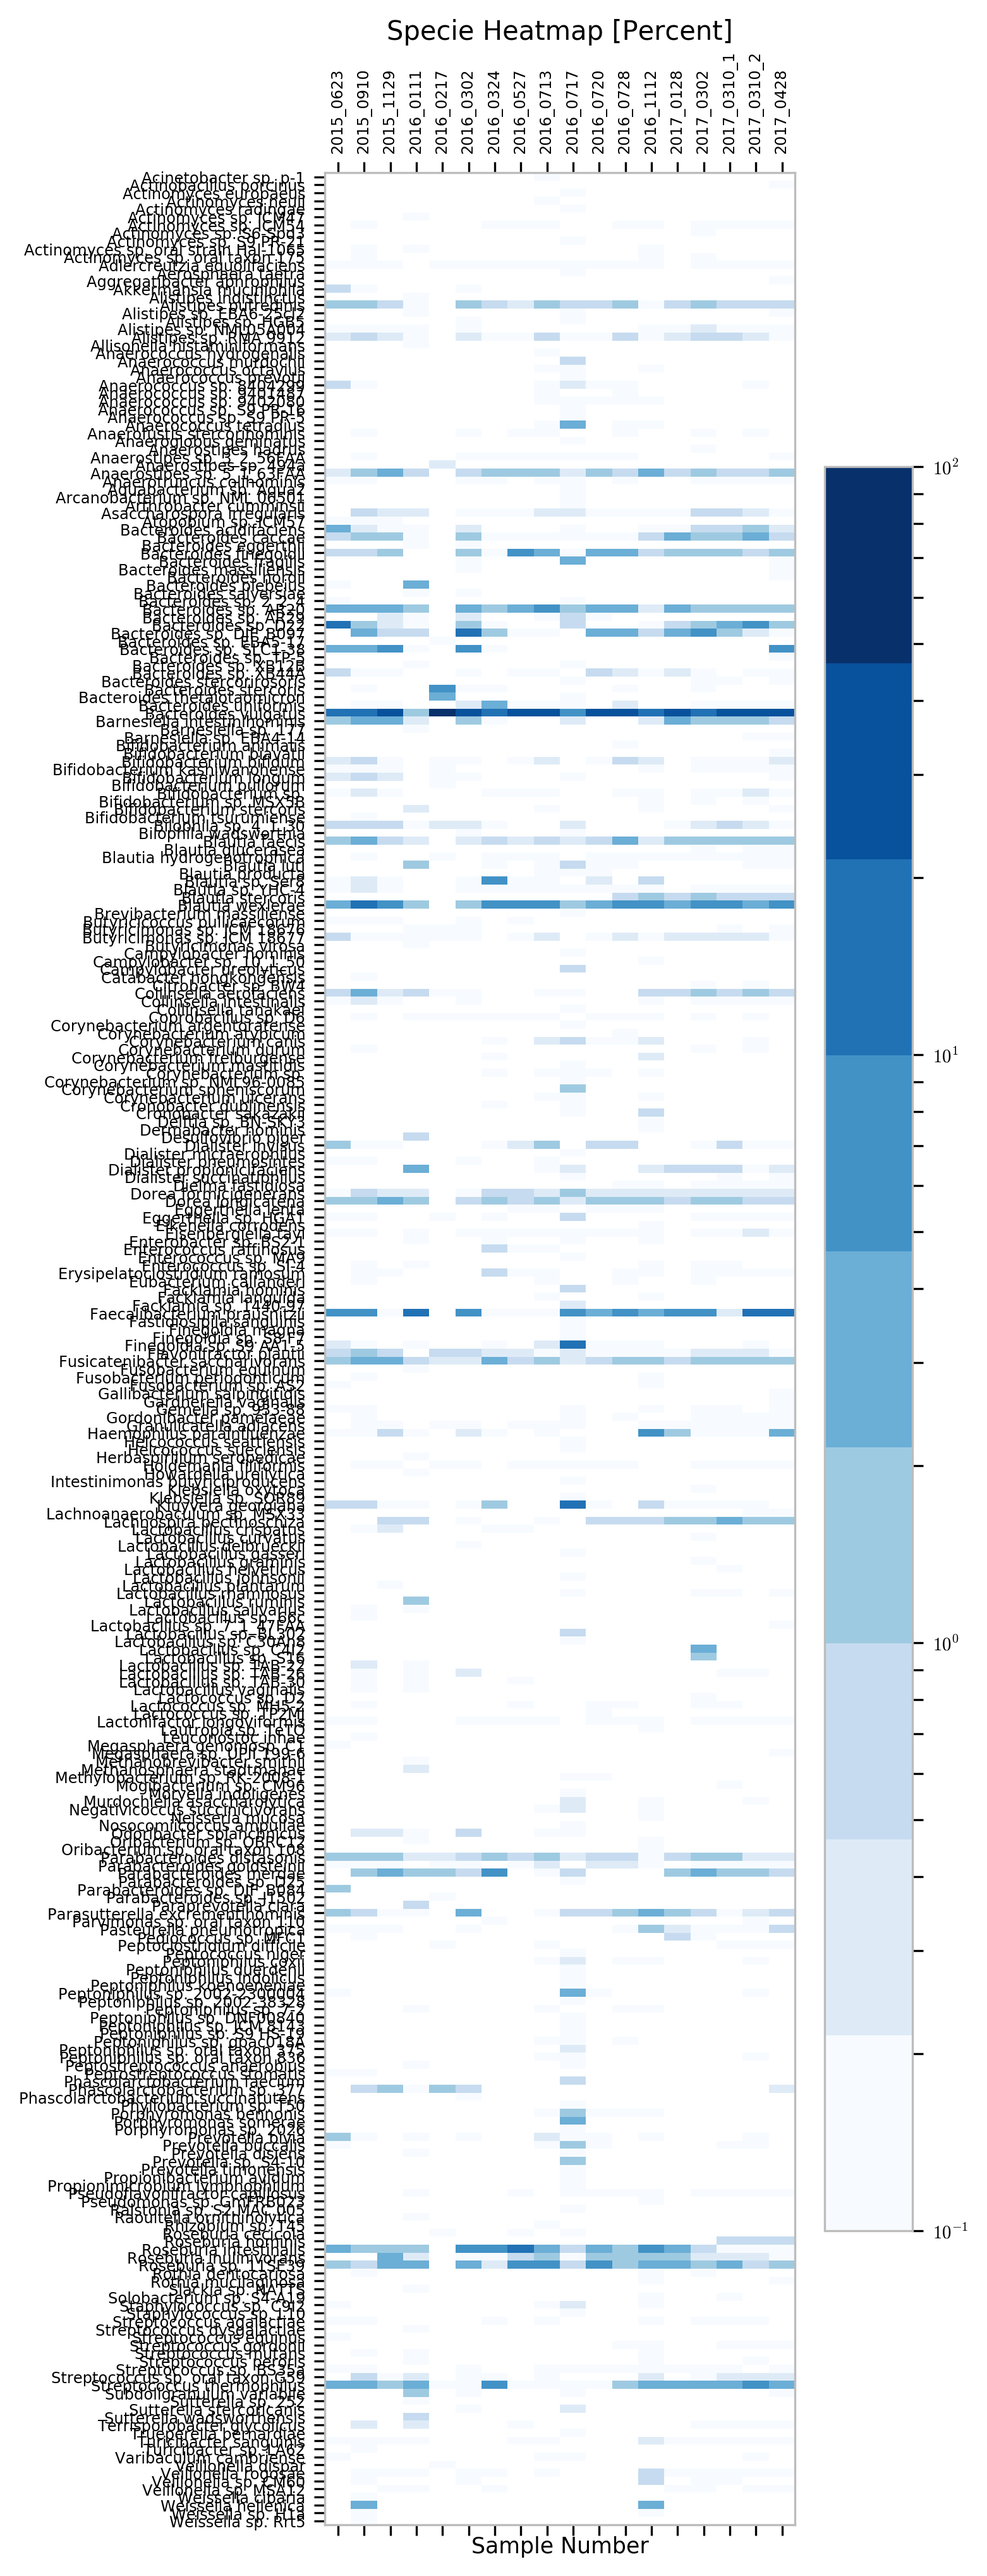
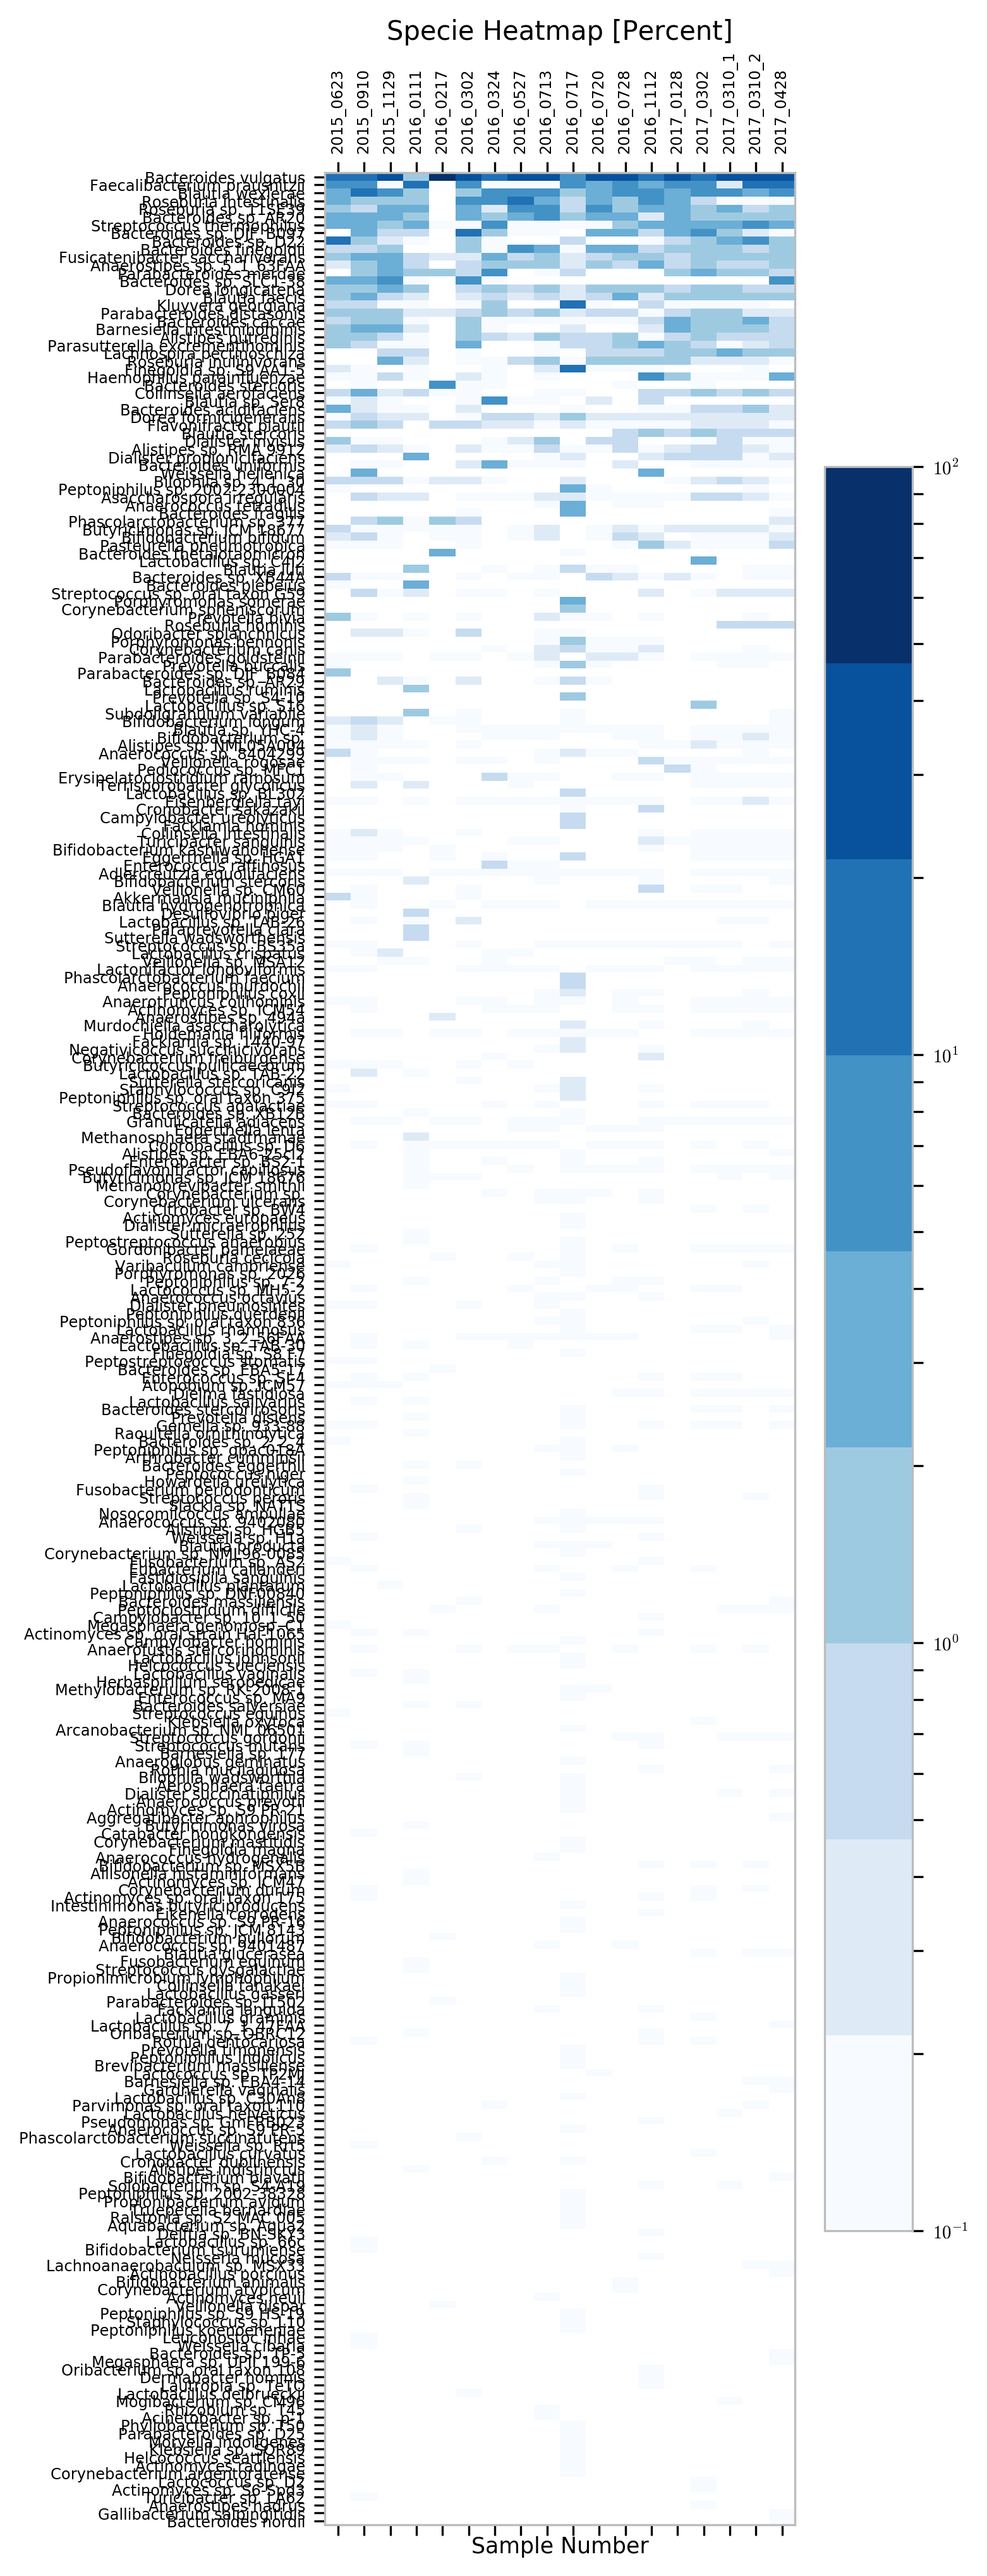
cleaned up some plots

diff --git a/code/main.py b/code/main.py
@@ -486,10 +486,15 @@ def ubiomeAnalysis():
             r.append(p[kk][k])
     r = np.reshape(r, (len(genii), N), order='F')   
     
+    # re order r
+    idx = np.flip(np.argsort(np.sum(r, axis=1)), axis=0)
+    r = r[idx, :]
+    genii = [genii[i] for i in idx.tolist()]    
+    
     plt.clf()
     plt.matshow(r, aspect='auto', cmap=matplotlib.cm.get_cmap('Blues', 9), norm=matplotlib.colors.LogNorm(vmin=0.1, vmax=100)); plt.colorbar()
     plt.yticks(np.arange(r.shape[0]), genii, size='xx-small')
-    plt.xlabel('Sample Number'); plt.grid(False)
+    plt.xlabel('Sample'); plt.grid(False)
     plt.xticks(np.arange(r.shape[1]), sampleNames, rotation = 'vertical', size='xx-small')
     plt.title('Genus Heatmap [Percent]')
     plt.savefig(os.path.join(baseDir, 'genus heatmap.png'))
@@ -498,7 +503,7 @@ def ubiomeAnalysis():
     plt.clf() 
     plt.matshow(r, aspect='auto', cmap=matplotlib.cm.get_cmap('afmhot_r', 9), norm=matplotlib.colors.LogNorm(vmin=0.1, vmax=100)); plt.colorbar()
     plt.yticks(np.arange(r.shape[0]), genii, size='xx-small')
-    plt.xlabel('Sample Number'); plt.grid(False)
+    plt.xlabel('Sample'); plt.grid(False)
     plt.xticks(np.arange(r.shape[1]), sampleNames, rotation = 'vertical', size='xx-small')
     plt.title('Genus Heatmap [Percent]')
     plt.savefig(os.path.join(baseDir, 'genus heatmap - alt colormap.png'))
@@ -747,6 +752,11 @@ def ubiomeAnalysis():
         for kk in species:
             r.append(p[kk][k])
     r = np.reshape(r, (len(species), N), order='F')   
+        
+    # re order r
+    idx = np.flip(np.argsort(np.sum(r, axis=1)), axis=0)
+    r = r[idx, :]
+    species = [species[i] for i in idx.tolist()]
     
     plt.clf() 
     plt.matshow(r, aspect='auto', cmap=matplotlib.cm.get_cmap('Blues', 9), norm=matplotlib.colors.LogNorm(vmin=0.1, vmax=100)); plt.colorbar()
